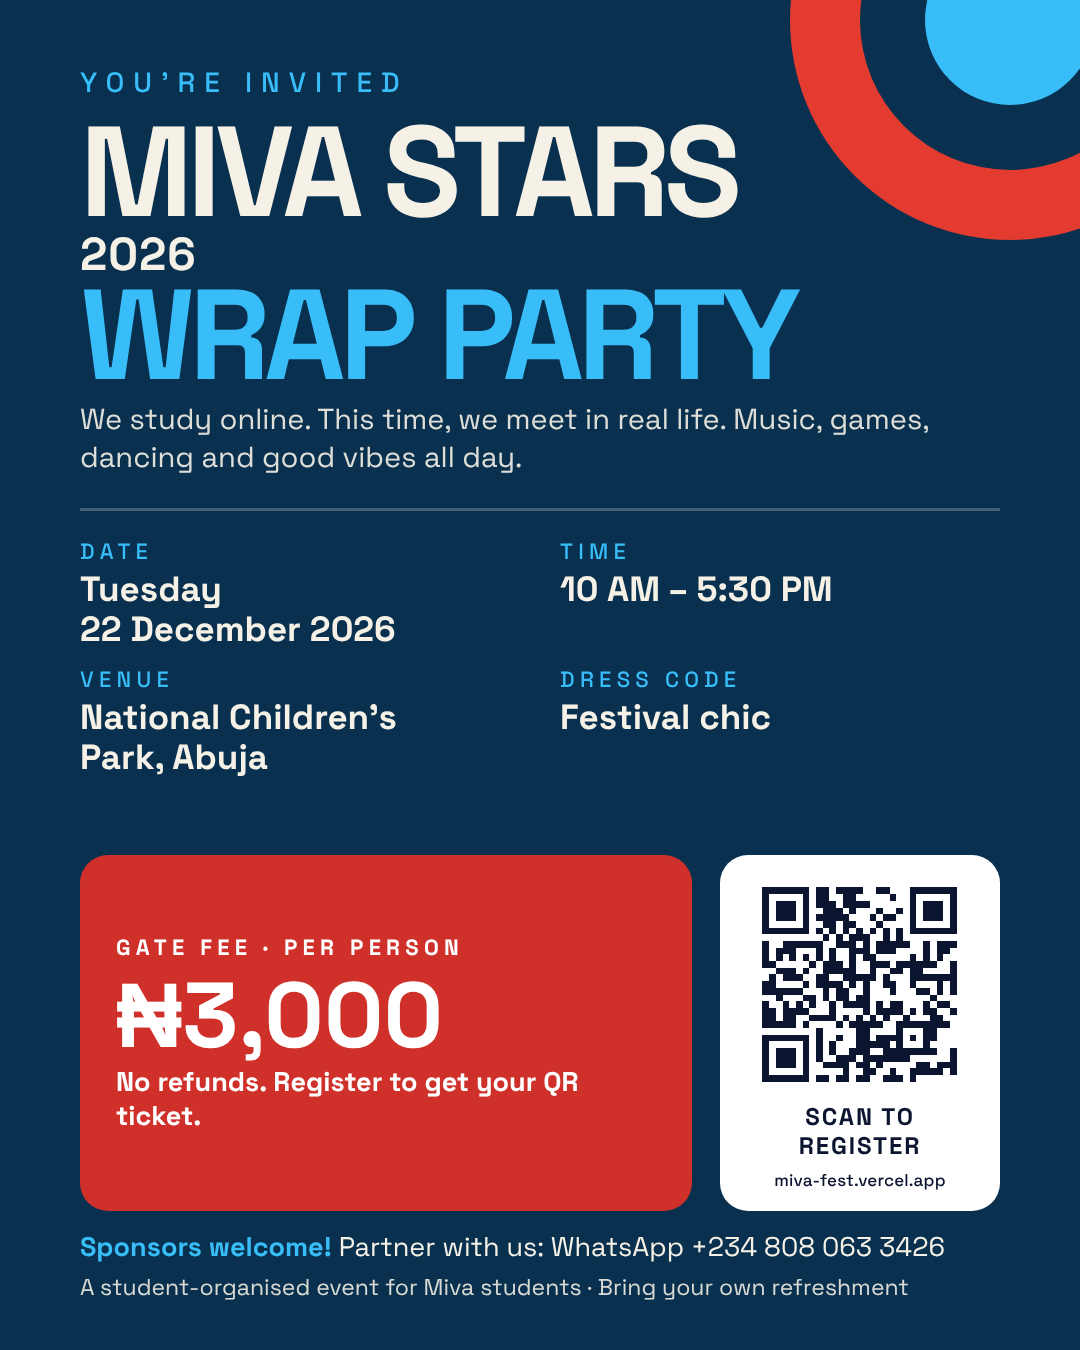
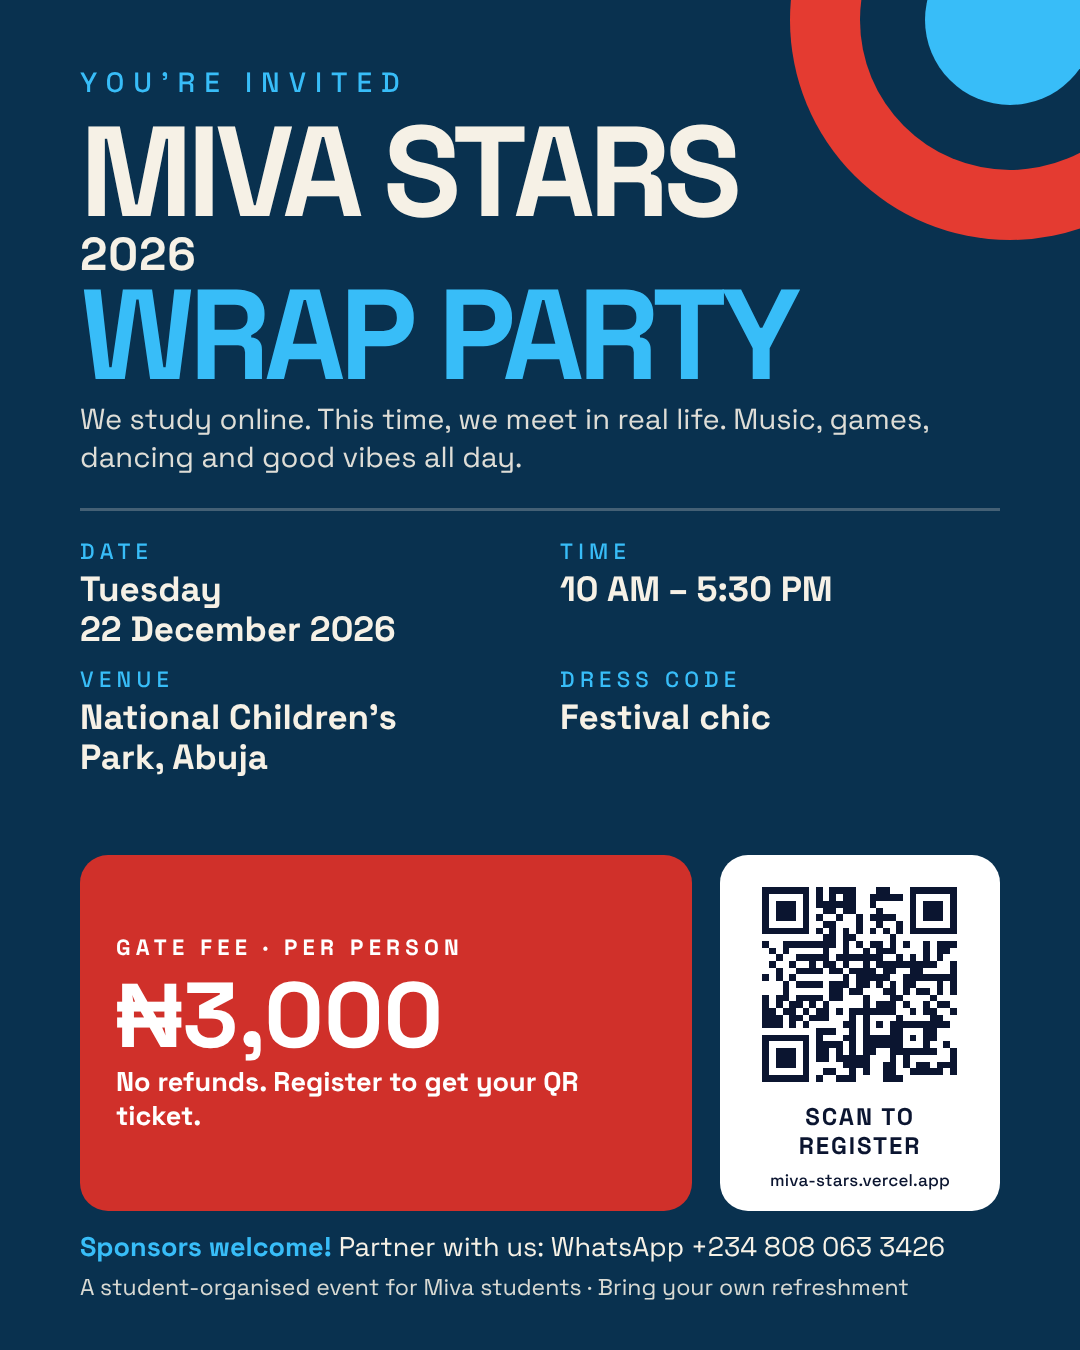
Flyer QR and address now point to miva-stars.vercel.app
The new domain (added in Vercel by the owner) serves the site with the
same security headers; miva-fest.vercel.app keeps working. QR decoded
from the render: https://miva-stars.vercel.app/#register.

Claude-Session: https://claude.ai/code/session_017u2fAYwLd8jgwD4gN1FR1w

Changed region(s): [[0.7028, 0.6533, 0.8556, 0.8089], [0.7333, 0.8711, 0.8861, 0.9022]]

diff --git a/flyer/flyer.html b/flyer/flyer.html
@@ -69,7 +69,7 @@ h1 span{display:block;color:var(--accent)}
 <script src="../site/vendor/qrcode.js"></script>
 <script>
   // Registration link (can be overridden: flyer.html?url=https://...)
-  var url = new URLSearchParams(location.search).get('url') || 'https://miva-fest.vercel.app/#register';
+  var url = new URLSearchParams(location.search).get('url') || 'https://miva-stars.vercel.app/#register';
   document.getElementById('url').textContent = url.replace(/^https:\/\//, '').replace(/\/#register$/, '');
   var qr = qrcode(0, 'M'); qr.addData(url); qr.make();
   var n = qr.getModuleCount(), c = document.getElementById('qr'), g = c.getContext('2d');

diff --git a/README.md b/README.md
@@ -4,7 +4,7 @@ Public registration page for **Miva Fest: The December Experience**, 22 December
 
 Static site on **Vercel**, registrations stored in **Supabase**.
 
-**Live:** https://miva-fest.vercel.app (deploys from the `main` branch) (Vercel project `miva-fest`, Supabase project `houljdudfeyhrhxrcrfs`).
+**Live:** https://miva-stars.vercel.app (also https://miva-fest.vercel.app; deploys from the `main` branch) (Vercel project `miva-fest`, Supabase project `houljdudfeyhrhxrcrfs`).
 
 ## Folders
 
